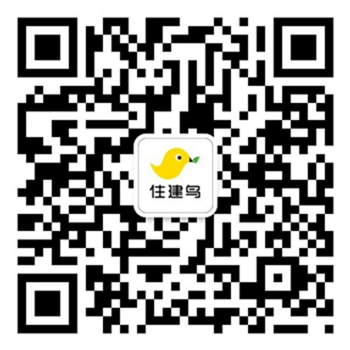
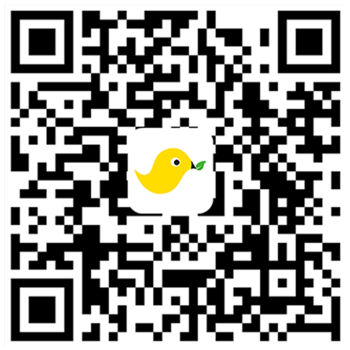
更换二维码

diff --git a/src/components/shareProduct/sharePaySucc.vue b/src/components/shareProduct/sharePaySucc.vue
@@ -4,8 +4,8 @@
       <div class="success-content">
         <img src="../../assets/images/successbg.png" alt="成功" class="success-img">
         <p class="fz19 mt4">支付成功</p>
-        <p class="fz14 mt3">关注<span class="paysuccesstext">“住建鸟公众号”</span>查看订单状态</p>
-        <p class="fz14 mt3">注：住建鸟公众号—我的服务—我的订单</p>
+        <p class="fz14 mt3">下载<span class="paysuccesstext">“住建鸟APP”</span>查看订单状态</p>
+        <p class="fz14 mt3">注：住建鸟APP—我的—我的订单—业主自选</p>
       </div>
         <div style="margin-top:30px;width:14rem;height:14rem;">
             <img src="../../assets/images/zjn-dimension.png" style="max-width:100%" alt="成功" >

diff --git a/src/main.js b/src/main.js
@@ -13,7 +13,7 @@ import messagebox from './components/common/dialog'
 import Calendar from './components/common/calendar'
 import selectbox from './components/common/selectlist'
 
-import * as VConsole from 'vconsole'
+//import * as VConsole from 'vconsole'
 
 
 import wcSwiper from 'wc-swiper'
